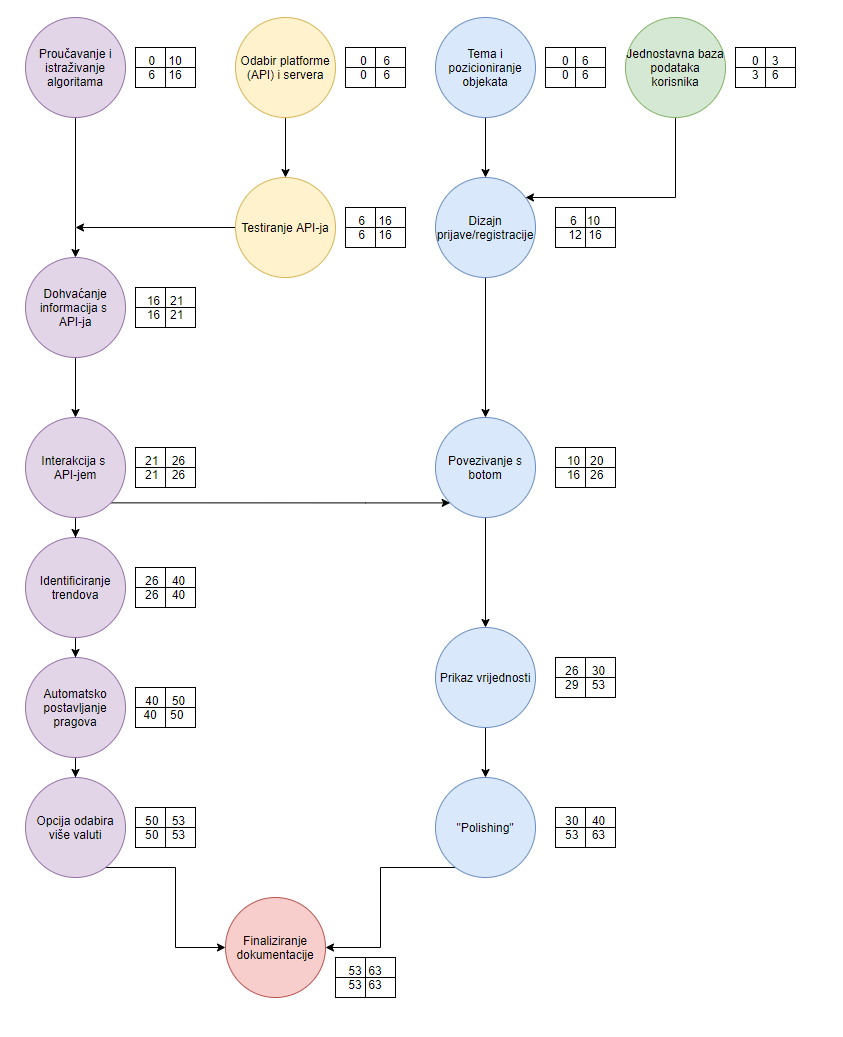
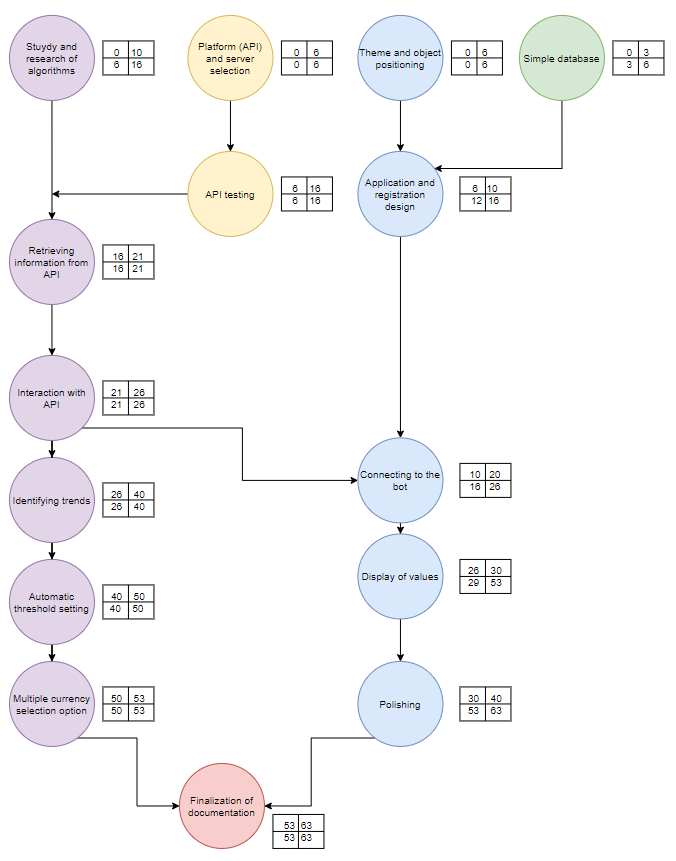
translated everything to english

Changed region(s): [[0.0, 0.0, 0.8077, 0.9965], [0.2796, 0.0, 0.9941, 0.1812]]

diff --git a/README.md b/README.md
@@ -1,27 +1,17 @@
-# Cryptocurrency Trading Bot
+# sCrypto - Cryptocurrency trading bot
 
-## Tema
-Izrada bota za autonomnu razmjenu kriptovaluta.
+## Overview
+Development of a trading bot in Java for autonomous cryptocurrency exchange. The plan is to make two bots, simpler and more complex. A simple bot monitors the movement of prices for a certain time and on that basis concludes when buying a cryptocurrency, ie selling. Once a simple bot is developed, a more complex one will be developed, which will recognize trends on various websites and social networks. A dashboard will also be made for it. 
 
-## Sažetak
-Plan je izraditi dva bota, jednostavniji i složeniji. Jednostavni bot samo prati kretanje cijene u određenom vremenu i na temelju toga zaključuje kada će kupiti kriptovalutu, odnosno prodati.
-Nakon što se razvije jednostavni bot, razviti ćemo složeniji, koji će uz pomoć umjetne inteligencije prepoznavati trendove na raznim web stranicama i društvenim mrežama. Za njega će biti napravljena i nadzorna ploča.
+## Links
+UML diagram overview  - https://app.diagrams.net</br>
+Binance cryptocurrency trading page - https://www.binance.com/en </br>
 
-
-## Dokumentacija
-Plan, razradu strategije za trgovanjem kriptovalute i detaljnije razloge zbog čega je odabrana stranica Binance, možete pogledati u folderu "documentation".
-U folderu "diagrams" se nalaze WBS i PERT dijagrami napravljeni za ovaj projekt.
-
-
-## Poveznice
-Pregled UML dijagrama - https://app.diagrams.net</br>
-Stranica za trgovanje kriptovalutama Binance - https://www.binance.com/en </br>
-
-## Autori
+## Authors
 Fran Grenko</br>
 Deni Klen</br>
 Ani Perušić</br>
 Mateo Srića</br>
 Karlo Veršić</br>
 
-Tehnički fakultet Rijeka, 2021.
+Faculty of engineering in Rijeka, 2021.
